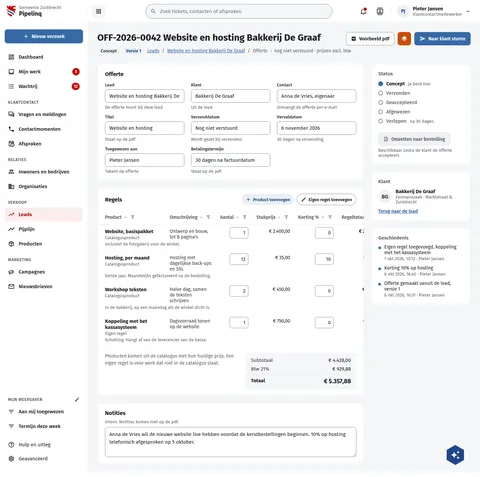
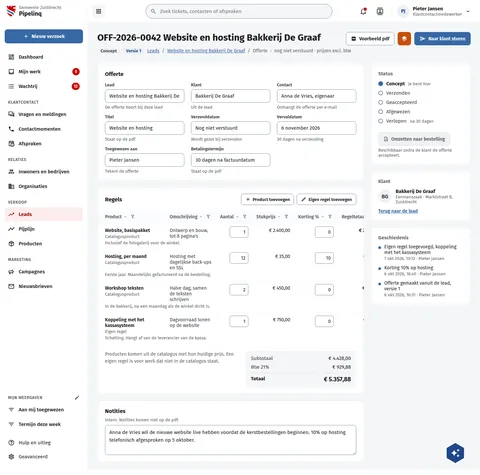
fix(screens): PqOfferte's lines table and card buttons as the Dq card tables
The lines table head sits on the near-white ground without rules, and the
product name is 14px/600 in the main ink, as DqZaakContact and
DqZaaktypeStatussen draw a card's list. "Product toevoegen" and "Eigen
regel toevoegen" are the neutral 34px card buttons with 8px corners, as the
Dq boards draw a card's Add. Rebuilt with build.py --only PqOfferte; that
also re-synced the stale stored heights of PqDashboard and PqLead in
screens.json with heights.json.

Assisted-by: ClaudeCode:claude-opus-5-5

diff --git a/preview/screens/boards/PqOfferte.html b/preview/screens/boards/PqOfferte.html
@@ -228,25 +228,25 @@ a{color:var(--sc-primary, #3669a5)}a:hover{color:var(--sc-primary-deep, #234a78)
               <div style="display: flex; flex-wrap: wrap; justify-content: space-between; align-items: center; gap: 10px; padding: 18px 22px 14px">
                 <h2 style="margin: 0; font-size: 17px; font-weight: 700">Regels</h2>
                 <div style="display: flex; flex-wrap: wrap; gap: 8px">
-                  <button type="button" style="display: inline-flex; align-items: center; gap: 6px; height: 34px; padding: 0 12px; border: 0; border-radius: 17px; background: var(--sc-primary-light, #eaf0f7); color: var(--sc-primary-deep, #234a78); font: 600 13px var(--sc-font, 'Fira Sans'), sans-serif"><svg width="16" height="16" viewbox="0 0 24 24" fill="currentColor"><path d="M19,13H13V19H11V13H5V11H11V5H13V11H19V13Z"></path></svg>Product toevoegen</button>
-                  <button type="button" style="display: inline-flex; align-items: center; gap: 6px; height: 34px; padding: 0 12px; border: 1px solid var(--sc-work-field, #828a95); border-radius: 17px; background: #ffffff; color: var(--sc-work-ink, #1b1c1d); font: 600 13px var(--sc-font, 'Fira Sans'), sans-serif"><svg width="16" height="16" viewbox="0 0 24 24" fill="currentColor"><path d="M14.06,9L15,9.94L5.92,19H5V18.08L14.06,9M17.66,3C17.41,3 17.15,3.1 16.96,3.29L15.13,5.12L18.88,8.87L20.71,7.04C21.1,6.65 21.1,6 20.71,5.63L18.37,3.29C18.17,3.09 17.92,3 17.66,3M14.06,6.19L3,17.25V21H6.75L17.81,9.94L14.06,6.19Z"></path></svg>Eigen regel toevoegen</button>
+                  <button type="button" style="display: inline-flex; align-items: center; gap: 6px; height: 34px; padding: 0 12px; border: 1px solid var(--sc-work-field, #828a95); border-radius: 8px; background: #ffffff; color: var(--sc-work-ink, #1b1c1d); font: 600 13px var(--sc-font, 'Fira Sans'), sans-serif"><svg width="16" height="16" viewbox="0 0 24 24" fill="currentColor"><path d="M19,13H13V19H11V13H5V11H11V5H13V11H19V13Z"></path></svg>Product toevoegen</button>
+                  <button type="button" style="display: inline-flex; align-items: center; gap: 6px; height: 34px; padding: 0 12px; border: 1px solid var(--sc-work-field, #828a95); border-radius: 8px; background: #ffffff; color: var(--sc-work-ink, #1b1c1d); font: 600 13px var(--sc-font, 'Fira Sans'), sans-serif"><svg width="16" height="16" viewbox="0 0 24 24" fill="currentColor"><path d="M14.06,9L15,9.94L5.92,19H5V18.08L14.06,9M17.66,3C17.41,3 17.15,3.1 16.96,3.29L15.13,5.12L18.88,8.87L20.71,7.04C21.1,6.65 21.1,6 20.71,5.63L18.37,3.29C18.17,3.09 17.92,3 17.66,3M14.06,6.19L3,17.25V21H6.75L17.81,9.94L14.06,6.19Z"></path></svg>Eigen regel toevoegen</button>
                 </div>
               </div>
               <div style="overflow-x: auto">
                 <table style="border-collapse: collapse; width: 100%; min-width: 760px; font-size: 14px">
-                  <thead><tr style="text-align: left; color: var(--sc-work-muted, #5e6168)">
-                    <th style="padding: 10px 12px 10px 22px; border-bottom: 1px solid var(--sc-work-line, #e4e6ea); border-top: 1px solid var(--sc-work-soft, #eef0f3); font-weight: 600; white-space: nowrap"><span style="display: inline-flex; align-items: center; gap: 4px"><button type="button" style="border: 0; background: transparent; padding: 0; font: inherit; color: inherit; display: inline-flex; gap: 4px; align-items: center; text-align: left">Product <svg width="14" height="14" viewbox="0 0 24 24" fill="#828a95" aria-hidden="true" style="fill:var(--sc-work-field, #828a95)"><path d="M7.41,8.58L12,13.17L16.59,8.58L18,10L12,16L6,10L7.41,8.58Z"></path></svg></button><button type="button" aria-haspopup="dialog" aria-label="Filteren op Product" title="Filteren op Product" style="width: 22px; height: 22px; padding: 0; border: 0; border-radius: 4px; background: transparent; color: var(--sc-work-muted, #5e6168); display: inline-flex; align-items: center; justify-content: center"><svg width="14" height="14" viewbox="0 0 24 24" fill="currentColor" aria-hidden="true"><path d="M15,19.88C15.04,20.18 14.94,20.5 14.71,20.71C14.32,21.1 13.69,21.1 13.3,20.71L9.29,16.7C9.06,16.47 8.96,16.16 9,15.87V10.75L4.21,4.62C3.87,4.19 3.95,3.56 4.38,3.22C4.57,3.08 4.78,3 5,3V3H19V3C19.22,3 19.43,3.08 19.62,3.22C20.05,3.56 20.13,4.19 19.79,4.62L15,10.75V19.88M7.04,5L11,10.06V15.58L13,17.58V10.05L16.96,5H7.04Z"></path></svg></button></span></th>
-                    <th style="padding: 10px 12px; border-bottom: 1px solid var(--sc-work-line, #e4e6ea); border-top: 1px solid var(--sc-work-soft, #eef0f3); font-weight: 600; white-space: nowrap"><span style="display: inline-flex; align-items: center; gap: 4px"><button type="button" style="border: 0; background: transparent; padding: 0; font: inherit; color: inherit; display: inline-flex; gap: 4px; align-items: center; text-align: left">Omschrijving <svg width="14" height="14" viewbox="0 0 24 24" fill="#828a95" aria-hidden="true" style="fill:var(--sc-work-field, #828a95)"><path d="M7.41,8.58L12,13.17L16.59,8.58L18,10L12,16L6,10L7.41,8.58Z"></path></svg></button><button type="button" aria-haspopup="dialog" aria-label="Filteren op Omschrijving" title="Filteren op Omschrijving" style="width: 22px; height: 22px; padding: 0; border: 0; border-radius: 4px; background: transparent; color: var(--sc-work-muted, #5e6168); display: inline-flex; align-items: center; justify-content: center"><svg width="14" height="14" viewbox="0 0 24 24" fill="currentColor" aria-hidden="true"><path d="M15,19.88C15.04,20.18 14.94,20.5 14.71,20.71C14.32,21.1 13.69,21.1 13.3,20.71L9.29,16.7C9.06,16.47 8.96,16.16 9,15.87V10.75L4.21,4.62C3.87,4.19 3.95,3.56 4.38,3.22C4.57,3.08 4.78,3 5,3V3H19V3C19.22,3 19.43,3.08 19.62,3.22C20.05,3.56 20.13,4.19 19.79,4.62L15,10.75V19.88M7.04,5L11,10.06V15.58L13,17.58V10.05L16.96,5H7.04Z"></path></svg></button></span></th>
-                    <th style="padding: 10px 12px; border-bottom: 1px solid var(--sc-work-line, #e4e6ea); border-top: 1px solid var(--sc-work-soft, #eef0f3); font-weight: 600; white-space: nowrap; text-align: right"><span style="display: inline-flex; align-items: center; gap: 4px"><button type="button" style="border: 0; background: transparent; padding: 0; font: inherit; color: inherit; display: inline-flex; gap: 4px; align-items: center; text-align: left">Aantal <svg width="14" height="14" viewbox="0 0 24 24" fill="#828a95" aria-hidden="true" style="fill:var(--sc-work-field, #828a95)"><path d="M7.41,8.58L12,13.17L16.59,8.58L18,10L12,16L6,10L7.41,8.58Z"></path></svg></button><button type="button" aria-haspopup="dialog" aria-label="Filteren op Aantal" title="Filteren op Aantal" style="width: 22px; height: 22px; padding: 0; border: 0; border-radius: 4px; background: transparent; color: var(--sc-work-muted, #5e6168); display: inline-flex; align-items: center; justify-content: center"><svg width="14" height="14" viewbox="0 0 24 24" fill="currentColor" aria-hidden="true"><path d="M15,19.88C15.04,20.18 14.94,20.5 14.71,20.71C14.32,21.1 13.69,21.1 13.3,20.71L9.29,16.7C9.06,16.47 8.96,16.16 9,15.87V10.75L4.21,4.62C3.87,4.19 3.95,3.56 4.38,3.22C4.57,3.08 4.78,3 5,3V3H19V3C19.22,3 19.43,3.08 19.62,3.22C20.05,3.56 20.13,4.19 19.79,4.62L15,10.75V19.88M7.04,5L11,10.06V15.58L13,17.58V10.05L16.96,5H7.04Z"></path></svg></button></span></th>
-                    <th style="padding: 10px 12px; border-bottom: 1px solid var(--sc-work-line, #e4e6ea); border-top: 1px solid var(--sc-work-soft, #eef0f3); font-weight: 600; white-space: nowrap; text-align: right"><span style="display: inline-flex; align-items: center; gap: 4px"><button type="button" style="border: 0; background: transparent; padding: 0; font: inherit; color: inherit; display: inline-flex; gap: 4px; align-items: center; text-align: left">Stukprijs <svg width="14" height="14" viewbox="0 0 24 24" fill="#828a95" aria-hidden="true" style="fill:var(--sc-work-field, #828a95)"><path d="M7.41,8.58L12,13.17L16.59,8.58L18,10L12,16L6,10L7.41,8.58Z"></path></svg></button><button type="button" aria-haspopup="dialog" aria-label="Filteren op Stukprijs" title="Filteren op Stukprijs" style="width: 22px; height: 22px; padding: 0; border: 0; border-radius: 4px; background: transparent; color: var(--sc-work-muted, #5e6168); display: inline-flex; align-items: center; justify-content: center"><svg width="14" height="14" viewbox="0 0 24 24" fill="currentColor" aria-hidden="true"><path d="M15,19.88C15.04,20.18 14.94,20.5 14.71,20.71C14.32,21.1 13.69,21.1 13.3,20.71L9.29,16.7C9.06,16.47 8.96,16.16 9,15.87V10.75L4.21,4.62C3.87,4.19 3.95,3.56 4.38,3.22C4.57,3.08 4.78,3 5,3V3H19V3C19.22,3 19.43,3.08 19.62,3.22C20.05,3.56 20.13,4.19 19.79,4.62L15,10.75V19.88M7.04,5L11,10.06V15.58L13,17.58V10.05L16.96,5H7.04Z"></path></svg></button></span></th>
-                    <th style="padding: 10px 12px; border-bottom: 1px solid var(--sc-work-line, #e4e6ea); border-top: 1px solid var(--sc-work-soft, #eef0f3); font-weight: 600; white-space: nowrap; text-align: right"><span style="display: inline-flex; align-items: center; gap: 4px"><button type="button" style="border: 0; background: transparent; padding: 0; font: inherit; color: inherit; display: inline-flex; gap: 4px; align-items: center; text-align: left">Korting % <svg width="14" height="14" viewbox="0 0 24 24" fill="#828a95" aria-hidden="true" style="fill:var(--sc-work-field, #828a95)"><path d="M7.41,8.58L12,13.17L16.59,8.58L18,10L12,16L6,10L7.41,8.58Z"></path></svg></button><button type="button" aria-haspopup="dialog" aria-label="Filteren op Korting %" title="Filteren op Korting %" style="width: 22px; height: 22px; padding: 0; border: 0; border-radius: 4px; background: transparent; color: var(--sc-work-muted, #5e6168); display: inline-flex; align-items: center; justify-content: center"><svg width="14" height="14" viewbox="0 0 24 24" fill="currentColor" aria-hidden="true"><path d="M15,19.88C15.04,20.18 14.94,20.5 14.71,20.71C14.32,21.1 13.69,21.1 13.3,20.71L9.29,16.7C9.06,16.47 8.96,16.16 9,15.87V10.75L4.21,4.62C3.87,4.19 3.95,3.56 4.38,3.22C4.57,3.08 4.78,3 5,3V3H19V3C19.22,3 19.43,3.08 19.62,3.22C20.05,3.56 20.13,4.19 19.79,4.62L15,10.75V19.88M7.04,5L11,10.06V15.58L13,17.58V10.05L16.96,5H7.04Z"></path></svg></button></span></th>
-                    <th style="padding: 10px 12px; border-bottom: 1px solid var(--sc-work-line, #e4e6ea); border-top: 1px solid var(--sc-work-soft, #eef0f3); font-weight: 600; white-space: nowrap; text-align: right"><span style="display: inline-flex; align-items: center; gap: 4px"><button type="button" style="border: 0; background: transparent; padding: 0; font: inherit; color: inherit; display: inline-flex; gap: 4px; align-items: center; text-align: left">Regeltotaal <svg width="14" height="14" viewbox="0 0 24 24" fill="#828a95" aria-hidden="true" style="fill:var(--sc-work-field, #828a95)"><path d="M7.41,8.58L12,13.17L16.59,8.58L18,10L12,16L6,10L7.41,8.58Z"></path></svg></button><button type="button" aria-haspopup="dialog" aria-label="Filteren op Regeltotaal" title="Filteren op Regeltotaal" style="width: 22px; height: 22px; padding: 0; border: 0; border-radius: 4px; background: transparent; color: var(--sc-work-muted, #5e6168); display: inline-flex; align-items: center; justify-content: center"><svg width="14" height="14" viewbox="0 0 24 24" fill="currentColor" aria-hidden="true"><path d="M15,19.88C15.04,20.18 14.94,20.5 14.71,20.71C14.32,21.1 13.69,21.1 13.3,20.71L9.29,16.7C9.06,16.47 8.96,16.16 9,15.87V10.75L4.21,4.62C3.87,4.19 3.95,3.56 4.38,3.22C4.57,3.08 4.78,3 5,3V3H19V3C19.22,3 19.43,3.08 19.62,3.22C20.05,3.56 20.13,4.19 19.79,4.62L15,10.75V19.88M7.04,5L11,10.06V15.58L13,17.58V10.05L16.96,5H7.04Z"></path></svg></button></span></th>
-                    <th style="padding: 10px 22px 10px 4px; border-bottom: 1px solid var(--sc-work-line, #e4e6ea); border-top: 1px solid var(--sc-work-soft, #eef0f3); width: 36px"><span style="position: absolute; width: 1px; height: 1px; overflow: hidden; clip: rect(0 0 0 0)">Verwijderen</span></th>
+                  <thead><tr style="text-align: left; color: var(--sc-work-muted, #5e6168); background: #fafbfc">
+                    <th style="padding: 10px 12px 10px 22px; font-weight: 600; white-space: nowrap"><span style="display: inline-flex; align-items: center; gap: 4px"><button type="button" style="border: 0; background: transparent; padding: 0; font: inherit; color: inherit; display: inline-flex; gap: 4px; align-items: center; text-align: left">Product <svg width="14" height="14" viewbox="0 0 24 24" fill="#828a95" aria-hidden="true" style="fill:var(--sc-work-field, #828a95)"><path d="M7.41,8.58L12,13.17L16.59,8.58L18,10L12,16L6,10L7.41,8.58Z"></path></svg></button><button type="button" aria-haspopup="dialog" aria-label="Filteren op Product" title="Filteren op Product" style="width: 22px; height: 22px; padding: 0; border: 0; border-radius: 4px; background: transparent; color: var(--sc-work-muted, #5e6168); display: inline-flex; align-items: center; justify-content: center"><svg width="14" height="14" viewbox="0 0 24 24" fill="currentColor" aria-hidden="true"><path d="M15,19.88C15.04,20.18 14.94,20.5 14.71,20.71C14.32,21.1 13.69,21.1 13.3,20.71L9.29,16.7C9.06,16.47 8.96,16.16 9,15.87V10.75L4.21,4.62C3.87,4.19 3.95,3.56 4.38,3.22C4.57,3.08 4.78,3 5,3V3H19V3C19.22,3 19.43,3.08 19.62,3.22C20.05,3.56 20.13,4.19 19.79,4.62L15,10.75V19.88M7.04,5L11,10.06V15.58L13,17.58V10.05L16.96,5H7.04Z"></path></svg></button></span></th>
+                    <th style="padding: 10px 12px; font-weight: 600; white-space: nowrap"><span style="display: inline-flex; align-items: center; gap: 4px"><button type="button" style="border: 0; background: transparent; padding: 0; font: inherit; color: inherit; display: inline-flex; gap: 4px; align-items: center; text-align: left">Omschrijving <svg width="14" height="14" viewbox="0 0 24 24" fill="#828a95" aria-hidden="true" style="fill:var(--sc-work-field, #828a95)"><path d="M7.41,8.58L12,13.17L16.59,8.58L18,10L12,16L6,10L7.41,8.58Z"></path></svg></button><button type="button" aria-haspopup="dialog" aria-label="Filteren op Omschrijving" title="Filteren op Omschrijving" style="width: 22px; height: 22px; padding: 0; border: 0; border-radius: 4px; background: transparent; color: var(--sc-work-muted, #5e6168); display: inline-flex; align-items: center; justify-content: center"><svg width="14" height="14" viewbox="0 0 24 24" fill="currentColor" aria-hidden="true"><path d="M15,19.88C15.04,20.18 14.94,20.5 14.71,20.71C14.32,21.1 13.69,21.1 13.3,20.71L9.29,16.7C9.06,16.47 8.96,16.16 9,15.87V10.75L4.21,4.62C3.87,4.19 3.95,3.56 4.38,3.22C4.57,3.08 4.78,3 5,3V3H19V3C19.22,3 19.43,3.08 19.62,3.22C20.05,3.56 20.13,4.19 19.79,4.62L15,10.75V19.88M7.04,5L11,10.06V15.58L13,17.58V10.05L16.96,5H7.04Z"></path></svg></button></span></th>
+                    <th style="padding: 10px 12px; font-weight: 600; white-space: nowrap; text-align: right"><span style="display: inline-flex; align-items: center; gap: 4px"><button type="button" style="border: 0; background: transparent; padding: 0; font: inherit; color: inherit; display: inline-flex; gap: 4px; align-items: center; text-align: left">Aantal <svg width="14" height="14" viewbox="0 0 24 24" fill="#828a95" aria-hidden="true" style="fill:var(--sc-work-field, #828a95)"><path d="M7.41,8.58L12,13.17L16.59,8.58L18,10L12,16L6,10L7.41,8.58Z"></path></svg></button><button type="button" aria-haspopup="dialog" aria-label="Filteren op Aantal" title="Filteren op Aantal" style="width: 22px; height: 22px; padding: 0; border: 0; border-radius: 4px; background: transparent; color: var(--sc-work-muted, #5e6168); display: inline-flex; align-items: center; justify-content: center"><svg width="14" height="14" viewbox="0 0 24 24" fill="currentColor" aria-hidden="true"><path d="M15,19.88C15.04,20.18 14.94,20.5 14.71,20.71C14.32,21.1 13.69,21.1 13.3,20.71L9.29,16.7C9.06,16.47 8.96,16.16 9,15.87V10.75L4.21,4.62C3.87,4.19 3.95,3.56 4.38,3.22C4.57,3.08 4.78,3 5,3V3H19V3C19.22,3 19.43,3.08 19.62,3.22C20.05,3.56 20.13,4.19 19.79,4.62L15,10.75V19.88M7.04,5L11,10.06V15.58L13,17.58V10.05L16.96,5H7.04Z"></path></svg></button></span></th>
+                    <th style="padding: 10px 12px; font-weight: 600; white-space: nowrap; text-align: right"><span style="display: inline-flex; align-items: center; gap: 4px"><button type="button" style="border: 0; background: transparent; padding: 0; font: inherit; color: inherit; display: inline-flex; gap: 4px; align-items: center; text-align: left">Stukprijs <svg width="14" height="14" viewbox="0 0 24 24" fill="#828a95" aria-hidden="true" style="fill:var(--sc-work-field, #828a95)"><path d="M7.41,8.58L12,13.17L16.59,8.58L18,10L12,16L6,10L7.41,8.58Z"></path></svg></button><button type="button" aria-haspopup="dialog" aria-label="Filteren op Stukprijs" title="Filteren op Stukprijs" style="width: 22px; height: 22px; padding: 0; border: 0; border-radius: 4px; background: transparent; color: var(--sc-work-muted, #5e6168); display: inline-flex; align-items: center; justify-content: center"><svg width="14" height="14" viewbox="0 0 24 24" fill="currentColor" aria-hidden="true"><path d="M15,19.88C15.04,20.18 14.94,20.5 14.71,20.71C14.32,21.1 13.69,21.1 13.3,20.71L9.29,16.7C9.06,16.47 8.96,16.16 9,15.87V10.75L4.21,4.62C3.87,4.19 3.95,3.56 4.38,3.22C4.57,3.08 4.78,3 5,3V3H19V3C19.22,3 19.43,3.08 19.62,3.22C20.05,3.56 20.13,4.19 19.79,4.62L15,10.75V19.88M7.04,5L11,10.06V15.58L13,17.58V10.05L16.96,5H7.04Z"></path></svg></button></span></th>
+                    <th style="padding: 10px 12px; font-weight: 600; white-space: nowrap; text-align: right"><span style="display: inline-flex; align-items: center; gap: 4px"><button type="button" style="border: 0; background: transparent; padding: 0; font: inherit; color: inherit; display: inline-flex; gap: 4px; align-items: center; text-align: left">Korting % <svg width="14" height="14" viewbox="0 0 24 24" fill="#828a95" aria-hidden="true" style="fill:var(--sc-work-field, #828a95)"><path d="M7.41,8.58L12,13.17L16.59,8.58L18,10L12,16L6,10L7.41,8.58Z"></path></svg></button><button type="button" aria-haspopup="dialog" aria-label="Filteren op Korting %" title="Filteren op Korting %" style="width: 22px; height: 22px; padding: 0; border: 0; border-radius: 4px; background: transparent; color: var(--sc-work-muted, #5e6168); display: inline-flex; align-items: center; justify-content: center"><svg width="14" height="14" viewbox="0 0 24 24" fill="currentColor" aria-hidden="true"><path d="M15,19.88C15.04,20.18 14.94,20.5 14.71,20.71C14.32,21.1 13.69,21.1 13.3,20.71L9.29,16.7C9.06,16.47 8.96,16.16 9,15.87V10.75L4.21,4.62C3.87,4.19 3.95,3.56 4.38,3.22C4.57,3.08 4.78,3 5,3V3H19V3C19.22,3 19.43,3.08 19.62,3.22C20.05,3.56 20.13,4.19 19.79,4.62L15,10.75V19.88M7.04,5L11,10.06V15.58L13,17.58V10.05L16.96,5H7.04Z"></path></svg></button></span></th>
+                    <th style="padding: 10px 12px; font-weight: 600; white-space: nowrap; text-align: right"><span style="display: inline-flex; align-items: center; gap: 4px"><button type="button" style="border: 0; background: transparent; padding: 0; font: inherit; color: inherit; display: inline-flex; gap: 4px; align-items: center; text-align: left">Regeltotaal <svg width="14" height="14" viewbox="0 0 24 24" fill="#828a95" aria-hidden="true" style="fill:var(--sc-work-field, #828a95)"><path d="M7.41,8.58L12,13.17L16.59,8.58L18,10L12,16L6,10L7.41,8.58Z"></path></svg></button><button type="button" aria-haspopup="dialog" aria-label="Filteren op Regeltotaal" title="Filteren op Regeltotaal" style="width: 22px; height: 22px; padding: 0; border: 0; border-radius: 4px; background: transparent; color: var(--sc-work-muted, #5e6168); display: inline-flex; align-items: center; justify-content: center"><svg width="14" height="14" viewbox="0 0 24 24" fill="currentColor" aria-hidden="true"><path d="M15,19.88C15.04,20.18 14.94,20.5 14.71,20.71C14.32,21.1 13.69,21.1 13.3,20.71L9.29,16.7C9.06,16.47 8.96,16.16 9,15.87V10.75L4.21,4.62C3.87,4.19 3.95,3.56 4.38,3.22C4.57,3.08 4.78,3 5,3V3H19V3C19.22,3 19.43,3.08 19.62,3.22C20.05,3.56 20.13,4.19 19.79,4.62L15,10.75V19.88M7.04,5L11,10.06V15.58L13,17.58V10.05L16.96,5H7.04Z"></path></svg></button></span></th>
+                    <th style="padding: 10px 22px 10px 4px; width: 36px"><span style="position: absolute; width: 1px; height: 1px; overflow: hidden; clip: rect(0 0 0 0)">Verwijderen</span></th>
                   </tr></thead>
                   <tbody>
                     
                       <tr>
-                        <td style="padding: 12px 12px 4px 22px; vertical-align: top; min-width: 170px"><span style="display: flex; flex-direction: column; gap: 2px"><strong style="font-size: 15px">Website, basispakket</strong><span style="font-size: 13px; color: var(--sc-work-muted, #5e6168)">Catalogusproduct</span></span></td>
+                        <td style="padding: 12px 12px 4px 22px; vertical-align: top; min-width: 170px"><span style="display: flex; flex-direction: column; gap: 2px"><strong style="font-size: 14px; font-weight: 600">Website, basispakket</strong><span style="font-size: 13px; color: var(--sc-work-muted, #5e6168)">Catalogusproduct</span></span></td>
                         <td style="padding: 12px 12px 4px; vertical-align: top; color: var(--sc-work-text, #3d4047)">Ontwerp en bouw, tot 8 pagina's</td>
                         <td style="padding: 8px 12px 4px; vertical-align: top; text-align: right"><input type="text" aria-label="Aantal voor Website, basispakket" value="1" style="width: 56px; height: 34px; box-sizing: border-box; padding: 0 8px; border: 1px solid var(--sc-work-field, #828a95); border-radius: 6px; font: 400 14px var(--sc-font, 'Fira Sans'), sans-serif; text-align: right; color: var(--sc-work-ink, #1b1c1d)"></td>
                         <td style="padding: 12px 12px 4px; vertical-align: top; text-align: right; white-space: nowrap">€ 2.400,00</td>
@@ -259,7 +259,7 @@ a{color:var(--sc-primary, #3669a5)}a:hover{color:var(--sc-primary-deep, #234a78)
                       </tr>
                     
                       <tr>
-                        <td style="padding: 12px 12px 4px 22px; vertical-align: top; min-width: 170px"><span style="display: flex; flex-direction: column; gap: 2px"><strong style="font-size: 15px">Hosting, per maand</strong><span style="font-size: 13px; color: var(--sc-work-muted, #5e6168)">Catalogusproduct</span></span></td>
+                        <td style="padding: 12px 12px 4px 22px; vertical-align: top; min-width: 170px"><span style="display: flex; flex-direction: column; gap: 2px"><strong style="font-size: 14px; font-weight: 600">Hosting, per maand</strong><span style="font-size: 13px; color: var(--sc-work-muted, #5e6168)">Catalogusproduct</span></span></td>
                         <td style="padding: 12px 12px 4px; vertical-align: top; color: var(--sc-work-text, #3d4047)">Hosting met dagelijkse back-ups en SSL</td>
                         <td style="padding: 8px 12px 4px; vertical-align: top; text-align: right"><input type="text" aria-label="Aantal voor Hosting, per maand" value="12" style="width: 56px; height: 34px; box-sizing: border-box; padding: 0 8px; border: 1px solid var(--sc-work-field, #828a95); border-radius: 6px; font: 400 14px var(--sc-font, 'Fira Sans'), sans-serif; text-align: right; color: var(--sc-work-ink, #1b1c1d)"></td>
                         <td style="padding: 12px 12px 4px; vertical-align: top; text-align: right; white-space: nowrap">€ 35,00</td>
@@ -272,7 +272,7 @@ a{color:var(--sc-primary, #3669a5)}a:hover{color:var(--sc-primary-deep, #234a78)
                       </tr>
                     
                       <tr>
-                        <td style="padding: 12px 12px 4px 22px; vertical-align: top; min-width: 170px"><span style="display: flex; flex-direction: column; gap: 2px"><strong style="font-size: 15px">Workshop teksten</strong><span style="font-size: 13px; color: var(--sc-work-muted, #5e6168)">Catalogusproduct</span></span></td>
+                        <td style="padding: 12px 12px 4px 22px; vertical-align: top; min-width: 170px"><span style="display: flex; flex-direction: column; gap: 2px"><strong style="font-size: 14px; font-weight: 600">Workshop teksten</strong><span style="font-size: 13px; color: var(--sc-work-muted, #5e6168)">Catalogusproduct</span></span></td>
                         <td style="padding: 12px 12px 4px; vertical-align: top; color: var(--sc-work-text, #3d4047)">Halve dag, samen de teksten schrijven</td>
                         <td style="padding: 8px 12px 4px; vertical-align: top; text-align: right"><input type="text" aria-label="Aantal voor Workshop teksten" value="2" style="width: 56px; height: 34px; box-sizing: border-box; padding: 0 8px; border: 1px solid var(--sc-work-field, #828a95); border-radius: 6px; font: 400 14px var(--sc-font, 'Fira Sans'), sans-serif; text-align: right; color: var(--sc-work-ink, #1b1c1d)"></td>
                         <td style="padding: 12px 12px 4px; vertical-align: top; text-align: right; white-space: nowrap">€ 450,00</td>
@@ -285,7 +285,7 @@ a{color:var(--sc-primary, #3669a5)}a:hover{color:var(--sc-primary-deep, #234a78)
                       </tr>
                     
                       <tr>
-                        <td style="padding: 12px 12px 4px 22px; vertical-align: top; min-width: 170px"><span style="display: flex; flex-direction: column; gap: 2px"><strong style="font-size: 15px">Koppeling met het kassasysteem</strong><span style="font-size: 13px; color: var(--sc-work-muted, #5e6168)">Eigen regel</span></span></td>
+                        <td style="padding: 12px 12px 4px 22px; vertical-align: top; min-width: 170px"><span style="display: flex; flex-direction: column; gap: 2px"><strong style="font-size: 14px; font-weight: 600">Koppeling met het kassasysteem</strong><span style="font-size: 13px; color: var(--sc-work-muted, #5e6168)">Eigen regel</span></span></td>
                         <td style="padding: 12px 12px 4px; vertical-align: top; color: var(--sc-work-text, #3d4047)">Dagvoorraad tonen op de website</td>
                         <td style="padding: 8px 12px 4px; vertical-align: top; text-align: right"><input type="text" aria-label="Aantal voor Koppeling met het kassasysteem" value="1" style="width: 56px; height: 34px; box-sizing: border-box; padding: 0 8px; border: 1px solid var(--sc-work-field, #828a95); border-radius: 6px; font: 400 14px var(--sc-font, 'Fira Sans'), sans-serif; text-align: right; color: var(--sc-work-ink, #1b1c1d)"></td>
                         <td style="padding: 12px 12px 4px; vertical-align: top; text-align: right; white-space: nowrap">€ 750,00</td>

diff --git a/screens-src/zuiddrecht/PqOfferte.dc.html b/screens-src/zuiddrecht/PqOfferte.dc.html
@@ -55,25 +55,25 @@ a{color:#3669a5}a:hover{color:#234a78}
               <div style="display: flex; flex-wrap: wrap; justify-content: space-between; align-items: center; gap: 10px; padding: 18px 22px 14px">
                 <h2 style="margin: 0; font-size: 17px; font-weight: 700">Regels</h2>
                 <div style="display: flex; flex-wrap: wrap; gap: 8px">
-                  <button type="button" style="display: inline-flex; align-items: center; gap: 6px; height: 34px; padding: 0 12px; border: 0; border-radius: 17px; background: #eaf0f7; color: #234a78; font: 600 13px 'Fira Sans', sans-serif"><svg width="16" height="16" viewBox="0 0 24 24" fill="currentColor"><path d="M19,13H13V19H11V13H5V11H11V5H13V11H19V13Z"></path></svg>Product toevoegen</button>
-                  <button type="button" style="display: inline-flex; align-items: center; gap: 6px; height: 34px; padding: 0 12px; border: 1px solid #828a95; border-radius: 17px; background: #ffffff; color: #1b1c1d; font: 600 13px 'Fira Sans', sans-serif"><svg width="16" height="16" viewBox="0 0 24 24" fill="currentColor"><path d="M14.06,9L15,9.94L5.92,19H5V18.08L14.06,9M17.66,3C17.41,3 17.15,3.1 16.96,3.29L15.13,5.12L18.88,8.87L20.71,7.04C21.1,6.65 21.1,6 20.71,5.63L18.37,3.29C18.17,3.09 17.92,3 17.66,3M14.06,6.19L3,17.25V21H6.75L17.81,9.94L14.06,6.19Z"></path></svg>Eigen regel toevoegen</button>
+                  <button type="button" style="display: inline-flex; align-items: center; gap: 6px; height: 34px; padding: 0 12px; border: 1px solid #828a95; border-radius: 8px; background: #ffffff; color: #1b1c1d; font: 600 13px 'Fira Sans', sans-serif"><svg width="16" height="16" viewBox="0 0 24 24" fill="currentColor"><path d="M19,13H13V19H11V13H5V11H11V5H13V11H19V13Z"></path></svg>Product toevoegen</button>
+                  <button type="button" style="display: inline-flex; align-items: center; gap: 6px; height: 34px; padding: 0 12px; border: 1px solid #828a95; border-radius: 8px; background: #ffffff; color: #1b1c1d; font: 600 13px 'Fira Sans', sans-serif"><svg width="16" height="16" viewBox="0 0 24 24" fill="currentColor"><path d="M14.06,9L15,9.94L5.92,19H5V18.08L14.06,9M17.66,3C17.41,3 17.15,3.1 16.96,3.29L15.13,5.12L18.88,8.87L20.71,7.04C21.1,6.65 21.1,6 20.71,5.63L18.37,3.29C18.17,3.09 17.92,3 17.66,3M14.06,6.19L3,17.25V21H6.75L17.81,9.94L14.06,6.19Z"></path></svg>Eigen regel toevoegen</button>
                 </div>
               </div>
               <div style="overflow-x: auto">
                 <table style="border-collapse: collapse; width: 100%; min-width: 760px; font-size: 14px">
-                  <thead><tr style="text-align: left; color: #5e6168">
-                    <th style="padding: 10px 12px 10px 22px; border-bottom: 1px solid #e4e6ea; border-top: 1px solid #eef0f3; font-weight: 600; white-space: nowrap"><span style="display: inline-flex; align-items: center; gap: 4px"><button type="button" style="border: 0; background: transparent; padding: 0; font: inherit; color: inherit; display: inline-flex; gap: 4px; align-items: center; text-align: left">Product <svg width="14" height="14" viewBox="0 0 24 24" fill="#828a95" aria-hidden="true"><path d="M7.41,8.58L12,13.17L16.59,8.58L18,10L12,16L6,10L7.41,8.58Z"></path></svg></button><button type="button" aria-haspopup="dialog" aria-label="Filteren op Product" title="Filteren op Product" style="width: 22px; height: 22px; padding: 0; border: 0; border-radius: 4px; background: transparent; color: #5e6168; display: inline-flex; align-items: center; justify-content: center"><svg width="14" height="14" viewBox="0 0 24 24" fill="currentColor" aria-hidden="true"><path d="M15,19.88C15.04,20.18 14.94,20.5 14.71,20.71C14.32,21.1 13.69,21.1 13.3,20.71L9.29,16.7C9.06,16.47 8.96,16.16 9,15.87V10.75L4.21,4.62C3.87,4.19 3.95,3.56 4.38,3.22C4.57,3.08 4.78,3 5,3V3H19V3C19.22,3 19.43,3.08 19.62,3.22C20.05,3.56 20.13,4.19 19.79,4.62L15,10.75V19.88M7.04,5L11,10.06V15.58L13,17.58V10.05L16.96,5H7.04Z"></path></svg></button></span></th>
-                    <th style="padding: 10px 12px; border-bottom: 1px solid #e4e6ea; border-top: 1px solid #eef0f3; font-weight: 600; white-space: nowrap"><span style="display: inline-flex; align-items: center; gap: 4px"><button type="button" style="border: 0; background: transparent; padding: 0; font: inherit; color: inherit; display: inline-flex; gap: 4px; align-items: center; text-align: left">Omschrijving <svg width="14" height="14" viewBox="0 0 24 24" fill="#828a95" aria-hidden="true"><path d="M7.41,8.58L12,13.17L16.59,8.58L18,10L12,16L6,10L7.41,8.58Z"></path></svg></button><button type="button" aria-haspopup="dialog" aria-label="Filteren op Omschrijving" title="Filteren op Omschrijving" style="width: 22px; height: 22px; padding: 0; border: 0; border-radius: 4px; background: transparent; color: #5e6168; display: inline-flex; align-items: center; justify-content: center"><svg width="14" height="14" viewBox="0 0 24 24" fill="currentColor" aria-hidden="true"><path d="M15,19.88C15.04,20.18 14.94,20.5 14.71,20.71C14.32,21.1 13.69,21.1 13.3,20.71L9.29,16.7C9.06,16.47 8.96,16.16 9,15.87V10.75L4.21,4.62C3.87,4.19 3.95,3.56 4.38,3.22C4.57,3.08 4.78,3 5,3V3H19V3C19.22,3 19.43,3.08 19.62,3.22C20.05,3.56 20.13,4.19 19.79,4.62L15,10.75V19.88M7.04,5L11,10.06V15.58L13,17.58V10.05L16.96,5H7.04Z"></path></svg></button></span></th>
-                    <th style="padding: 10px 12px; border-bottom: 1px solid #e4e6ea; border-top: 1px solid #eef0f3; font-weight: 600; white-space: nowrap; text-align: right"><span style="display: inline-flex; align-items: center; gap: 4px"><button type="button" style="border: 0; background: transparent; padding: 0; font: inherit; color: inherit; display: inline-flex; gap: 4px; align-items: center; text-align: left">Aantal <svg width="14" height="14" viewBox="0 0 24 24" fill="#828a95" aria-hidden="true"><path d="M7.41,8.58L12,13.17L16.59,8.58L18,10L12,16L6,10L7.41,8.58Z"></path></svg></button><button type="button" aria-haspopup="dialog" aria-label="Filteren op Aantal" title="Filteren op Aantal" style="width: 22px; height: 22px; padding: 0; border: 0; border-radius: 4px; background: transparent; color: #5e6168; display: inline-flex; align-items: center; justify-content: center"><svg width="14" height="14" viewBox="0 0 24 24" fill="currentColor" aria-hidden="true"><path d="M15,19.88C15.04,20.18 14.94,20.5 14.71,20.71C14.32,21.1 13.69,21.1 13.3,20.71L9.29,16.7C9.06,16.47 8.96,16.16 9,15.87V10.75L4.21,4.62C3.87,4.19 3.95,3.56 4.38,3.22C4.57,3.08 4.78,3 5,3V3H19V3C19.22,3 19.43,3.08 19.62,3.22C20.05,3.56 20.13,4.19 19.79,4.62L15,10.75V19.88M7.04,5L11,10.06V15.58L13,17.58V10.05L16.96,5H7.04Z"></path></svg></button></span></th>
-                    <th style="padding: 10px 12px; border-bottom: 1px solid #e4e6ea; border-top: 1px solid #eef0f3; font-weight: 600; white-space: nowrap; text-align: right"><span style="display: inline-flex; align-items: center; gap: 4px"><button type="button" style="border: 0; background: transparent; padding: 0; font: inherit; color: inherit; display: inline-flex; gap: 4px; align-items: center; text-align: left">Stukprijs <svg width="14" height="14" viewBox="0 0 24 24" fill="#828a95" aria-hidden="true"><path d="M7.41,8.58L12,13.17L16.59,8.58L18,10L12,16L6,10L7.41,8.58Z"></path></svg></button><button type="button" aria-haspopup="dialog" aria-label="Filteren op Stukprijs" title="Filteren op Stukprijs" style="width: 22px; height: 22px; padding: 0; border: 0; border-radius: 4px; background: transparent; color: #5e6168; display: inline-flex; align-items: center; justify-content: center"><svg width="14" height="14" viewBox="0 0 24 24" fill="currentColor" aria-hidden="true"><path d="M15,19.88C15.04,20.18 14.94,20.5 14.71,20.71C14.32,21.1 13.69,21.1 13.3,20.71L9.29,16.7C9.06,16.47 8.96,16.16 9,15.87V10.75L4.21,4.62C3.87,4.19 3.95,3.56 4.38,3.22C4.57,3.08 4.78,3 5,3V3H19V3C19.22,3 19.43,3.08 19.62,3.22C20.05,3.56 20.13,4.19 19.79,4.62L15,10.75V19.88M7.04,5L11,10.06V15.58L13,17.58V10.05L16.96,5H7.04Z"></path></svg></button></span></th>
-                    <th style="padding: 10px 12px; border-bottom: 1px solid #e4e6ea; border-top: 1px solid #eef0f3; font-weight: 600; white-space: nowrap; text-align: right"><span style="display: inline-flex; align-items: center; gap: 4px"><button type="button" style="border: 0; background: transparent; padding: 0; font: inherit; color: inherit; display: inline-flex; gap: 4px; align-items: center; text-align: left">Korting % <svg width="14" height="14" viewBox="0 0 24 24" fill="#828a95" aria-hidden="true"><path d="M7.41,8.58L12,13.17L16.59,8.58L18,10L12,16L6,10L7.41,8.58Z"></path></svg></button><button type="button" aria-haspopup="dialog" aria-label="Filteren op Korting %" title="Filteren op Korting %" style="width: 22px; height: 22px; padding: 0; border: 0; border-radius: 4px; background: transparent; color: #5e6168; display: inline-flex; align-items: center; justify-content: center"><svg width="14" height="14" viewBox="0 0 24 24" fill="currentColor" aria-hidden="true"><path d="M15,19.88C15.04,20.18 14.94,20.5 14.71,20.71C14.32,21.1 13.69,21.1 13.3,20.71L9.29,16.7C9.06,16.47 8.96,16.16 9,15.87V10.75L4.21,4.62C3.87,4.19 3.95,3.56 4.38,3.22C4.57,3.08 4.78,3 5,3V3H19V3C19.22,3 19.43,3.08 19.62,3.22C20.05,3.56 20.13,4.19 19.79,4.62L15,10.75V19.88M7.04,5L11,10.06V15.58L13,17.58V10.05L16.96,5H7.04Z"></path></svg></button></span></th>
-                    <th style="padding: 10px 12px; border-bottom: 1px solid #e4e6ea; border-top: 1px solid #eef0f3; font-weight: 600; white-space: nowrap; text-align: right"><span style="display: inline-flex; align-items: center; gap: 4px"><button type="button" style="border: 0; background: transparent; padding: 0; font: inherit; color: inherit; display: inline-flex; gap: 4px; align-items: center; text-align: left">Regeltotaal <svg width="14" height="14" viewBox="0 0 24 24" fill="#828a95" aria-hidden="true"><path d="M7.41,8.58L12,13.17L16.59,8.58L18,10L12,16L6,10L7.41,8.58Z"></path></svg></button><button type="button" aria-haspopup="dialog" aria-label="Filteren op Regeltotaal" title="Filteren op Regeltotaal" style="width: 22px; height: 22px; padding: 0; border: 0; border-radius: 4px; background: transparent; color: #5e6168; display: inline-flex; align-items: center; justify-content: center"><svg width="14" height="14" viewBox="0 0 24 24" fill="currentColor" aria-hidden="true"><path d="M15,19.88C15.04,20.18 14.94,20.5 14.71,20.71C14.32,21.1 13.69,21.1 13.3,20.71L9.29,16.7C9.06,16.47 8.96,16.16 9,15.87V10.75L4.21,4.62C3.87,4.19 3.95,3.56 4.38,3.22C4.57,3.08 4.78,3 5,3V3H19V3C19.22,3 19.43,3.08 19.62,3.22C20.05,3.56 20.13,4.19 19.79,4.62L15,10.75V19.88M7.04,5L11,10.06V15.58L13,17.58V10.05L16.96,5H7.04Z"></path></svg></button></span></th>
-                    <th style="padding: 10px 22px 10px 4px; border-bottom: 1px solid #e4e6ea; border-top: 1px solid #eef0f3; width: 36px"><span style="position: absolute; width: 1px; height: 1px; overflow: hidden; clip: rect(0 0 0 0)">Verwijderen</span></th>
+                  <thead><tr style="text-align: left; color: #5e6168; background: #fafbfc">
+                    <th style="padding: 10px 12px 10px 22px; font-weight: 600; white-space: nowrap"><span style="display: inline-flex; align-items: center; gap: 4px"><button type="button" style="border: 0; background: transparent; padding: 0; font: inherit; color: inherit; display: inline-flex; gap: 4px; align-items: center; text-align: left">Product <svg width="14" height="14" viewBox="0 0 24 24" fill="#828a95" aria-hidden="true"><path d="M7.41,8.58L12,13.17L16.59,8.58L18,10L12,16L6,10L7.41,8.58Z"></path></svg></button><button type="button" aria-haspopup="dialog" aria-label="Filteren op Product" title="Filteren op Product" style="width: 22px; height: 22px; padding: 0; border: 0; border-radius: 4px; background: transparent; color: #5e6168; display: inline-flex; align-items: center; justify-content: center"><svg width="14" height="14" viewBox="0 0 24 24" fill="currentColor" aria-hidden="true"><path d="M15,19.88C15.04,20.18 14.94,20.5 14.71,20.71C14.32,21.1 13.69,21.1 13.3,20.71L9.29,16.7C9.06,16.47 8.96,16.16 9,15.87V10.75L4.21,4.62C3.87,4.19 3.95,3.56 4.38,3.22C4.57,3.08 4.78,3 5,3V3H19V3C19.22,3 19.43,3.08 19.62,3.22C20.05,3.56 20.13,4.19 19.79,4.62L15,10.75V19.88M7.04,5L11,10.06V15.58L13,17.58V10.05L16.96,5H7.04Z"></path></svg></button></span></th>
+                    <th style="padding: 10px 12px; font-weight: 600; white-space: nowrap"><span style="display: inline-flex; align-items: center; gap: 4px"><button type="button" style="border: 0; background: transparent; padding: 0; font: inherit; color: inherit; display: inline-flex; gap: 4px; align-items: center; text-align: left">Omschrijving <svg width="14" height="14" viewBox="0 0 24 24" fill="#828a95" aria-hidden="true"><path d="M7.41,8.58L12,13.17L16.59,8.58L18,10L12,16L6,10L7.41,8.58Z"></path></svg></button><button type="button" aria-haspopup="dialog" aria-label="Filteren op Omschrijving" title="Filteren op Omschrijving" style="width: 22px; height: 22px; padding: 0; border: 0; border-radius: 4px; background: transparent; color: #5e6168; display: inline-flex; align-items: center; justify-content: center"><svg width="14" height="14" viewBox="0 0 24 24" fill="currentColor" aria-hidden="true"><path d="M15,19.88C15.04,20.18 14.94,20.5 14.71,20.71C14.32,21.1 13.69,21.1 13.3,20.71L9.29,16.7C9.06,16.47 8.96,16.16 9,15.87V10.75L4.21,4.62C3.87,4.19 3.95,3.56 4.38,3.22C4.57,3.08 4.78,3 5,3V3H19V3C19.22,3 19.43,3.08 19.62,3.22C20.05,3.56 20.13,4.19 19.79,4.62L15,10.75V19.88M7.04,5L11,10.06V15.58L13,17.58V10.05L16.96,5H7.04Z"></path></svg></button></span></th>
+                    <th style="padding: 10px 12px; font-weight: 600; white-space: nowrap; text-align: right"><span style="display: inline-flex; align-items: center; gap: 4px"><button type="button" style="border: 0; background: transparent; padding: 0; font: inherit; color: inherit; display: inline-flex; gap: 4px; align-items: center; text-align: left">Aantal <svg width="14" height="14" viewBox="0 0 24 24" fill="#828a95" aria-hidden="true"><path d="M7.41,8.58L12,13.17L16.59,8.58L18,10L12,16L6,10L7.41,8.58Z"></path></svg></button><button type="button" aria-haspopup="dialog" aria-label="Filteren op Aantal" title="Filteren op Aantal" style="width: 22px; height: 22px; padding: 0; border: 0; border-radius: 4px; background: transparent; color: #5e6168; display: inline-flex; align-items: center; justify-content: center"><svg width="14" height="14" viewBox="0 0 24 24" fill="currentColor" aria-hidden="true"><path d="M15,19.88C15.04,20.18 14.94,20.5 14.71,20.71C14.32,21.1 13.69,21.1 13.3,20.71L9.29,16.7C9.06,16.47 8.96,16.16 9,15.87V10.75L4.21,4.62C3.87,4.19 3.95,3.56 4.38,3.22C4.57,3.08 4.78,3 5,3V3H19V3C19.22,3 19.43,3.08 19.62,3.22C20.05,3.56 20.13,4.19 19.79,4.62L15,10.75V19.88M7.04,5L11,10.06V15.58L13,17.58V10.05L16.96,5H7.04Z"></path></svg></button></span></th>
+                    <th style="padding: 10px 12px; font-weight: 600; white-space: nowrap; text-align: right"><span style="display: inline-flex; align-items: center; gap: 4px"><button type="button" style="border: 0; background: transparent; padding: 0; font: inherit; color: inherit; display: inline-flex; gap: 4px; align-items: center; text-align: left">Stukprijs <svg width="14" height="14" viewBox="0 0 24 24" fill="#828a95" aria-hidden="true"><path d="M7.41,8.58L12,13.17L16.59,8.58L18,10L12,16L6,10L7.41,8.58Z"></path></svg></button><button type="button" aria-haspopup="dialog" aria-label="Filteren op Stukprijs" title="Filteren op Stukprijs" style="width: 22px; height: 22px; padding: 0; border: 0; border-radius: 4px; background: transparent; color: #5e6168; display: inline-flex; align-items: center; justify-content: center"><svg width="14" height="14" viewBox="0 0 24 24" fill="currentColor" aria-hidden="true"><path d="M15,19.88C15.04,20.18 14.94,20.5 14.71,20.71C14.32,21.1 13.69,21.1 13.3,20.71L9.29,16.7C9.06,16.47 8.96,16.16 9,15.87V10.75L4.21,4.62C3.87,4.19 3.95,3.56 4.38,3.22C4.57,3.08 4.78,3 5,3V3H19V3C19.22,3 19.43,3.08 19.62,3.22C20.05,3.56 20.13,4.19 19.79,4.62L15,10.75V19.88M7.04,5L11,10.06V15.58L13,17.58V10.05L16.96,5H7.04Z"></path></svg></button></span></th>
+                    <th style="padding: 10px 12px; font-weight: 600; white-space: nowrap; text-align: right"><span style="display: inline-flex; align-items: center; gap: 4px"><button type="button" style="border: 0; background: transparent; padding: 0; font: inherit; color: inherit; display: inline-flex; gap: 4px; align-items: center; text-align: left">Korting % <svg width="14" height="14" viewBox="0 0 24 24" fill="#828a95" aria-hidden="true"><path d="M7.41,8.58L12,13.17L16.59,8.58L18,10L12,16L6,10L7.41,8.58Z"></path></svg></button><button type="button" aria-haspopup="dialog" aria-label="Filteren op Korting %" title="Filteren op Korting %" style="width: 22px; height: 22px; padding: 0; border: 0; border-radius: 4px; background: transparent; color: #5e6168; display: inline-flex; align-items: center; justify-content: center"><svg width="14" height="14" viewBox="0 0 24 24" fill="currentColor" aria-hidden="true"><path d="M15,19.88C15.04,20.18 14.94,20.5 14.71,20.71C14.32,21.1 13.69,21.1 13.3,20.71L9.29,16.7C9.06,16.47 8.96,16.16 9,15.87V10.75L4.21,4.62C3.87,4.19 3.95,3.56 4.38,3.22C4.57,3.08 4.78,3 5,3V3H19V3C19.22,3 19.43,3.08 19.62,3.22C20.05,3.56 20.13,4.19 19.79,4.62L15,10.75V19.88M7.04,5L11,10.06V15.58L13,17.58V10.05L16.96,5H7.04Z"></path></svg></button></span></th>
+                    <th style="padding: 10px 12px; font-weight: 600; white-space: nowrap; text-align: right"><span style="display: inline-flex; align-items: center; gap: 4px"><button type="button" style="border: 0; background: transparent; padding: 0; font: inherit; color: inherit; display: inline-flex; gap: 4px; align-items: center; text-align: left">Regeltotaal <svg width="14" height="14" viewBox="0 0 24 24" fill="#828a95" aria-hidden="true"><path d="M7.41,8.58L12,13.17L16.59,8.58L18,10L12,16L6,10L7.41,8.58Z"></path></svg></button><button type="button" aria-haspopup="dialog" aria-label="Filteren op Regeltotaal" title="Filteren op Regeltotaal" style="width: 22px; height: 22px; padding: 0; border: 0; border-radius: 4px; background: transparent; color: #5e6168; display: inline-flex; align-items: center; justify-content: center"><svg width="14" height="14" viewBox="0 0 24 24" fill="currentColor" aria-hidden="true"><path d="M15,19.88C15.04,20.18 14.94,20.5 14.71,20.71C14.32,21.1 13.69,21.1 13.3,20.71L9.29,16.7C9.06,16.47 8.96,16.16 9,15.87V10.75L4.21,4.62C3.87,4.19 3.95,3.56 4.38,3.22C4.57,3.08 4.78,3 5,3V3H19V3C19.22,3 19.43,3.08 19.62,3.22C20.05,3.56 20.13,4.19 19.79,4.62L15,10.75V19.88M7.04,5L11,10.06V15.58L13,17.58V10.05L16.96,5H7.04Z"></path></svg></button></span></th>
+                    <th style="padding: 10px 22px 10px 4px; width: 36px"><span style="position: absolute; width: 1px; height: 1px; overflow: hidden; clip: rect(0 0 0 0)">Verwijderen</span></th>
                   </tr></thead>
                   <tbody>
                     <sc-for list="{{ lines }}" as="l" hint-placeholder-count="4">
                       <tr>
-                        <td style="padding: 12px 12px 4px 22px; vertical-align: top; min-width: 170px"><span style="display: flex; flex-direction: column; gap: 2px"><strong style="font-size: 15px">{{ l.product }}</strong><span style="font-size: 13px; color: #5e6168">{{ l.kind }}</span></span></td>
+                        <td style="padding: 12px 12px 4px 22px; vertical-align: top; min-width: 170px"><span style="display: flex; flex-direction: column; gap: 2px"><strong style="font-size: 14px; font-weight: 600">{{ l.product }}</strong><span style="font-size: 13px; color: #5e6168">{{ l.kind }}</span></span></td>
                         <td style="padding: 12px 12px 4px; vertical-align: top; color: #3d4047">{{ l.desc }}</td>
                         <td style="padding: 8px 12px 4px; vertical-align: top; text-align: right"><input type="text" aria-label="{{ l.qtyLabel }}" value="{{ l.qty }}" style="width: 56px; height: 34px; box-sizing: border-box; padding: 0 8px; border: 1px solid #828a95; border-radius: 6px; font: 400 14px 'Fira Sans', sans-serif; text-align: right; color: #1b1c1d"></td>
                         <td style="padding: 12px 12px 4px; vertical-align: top; text-align: right; white-space: nowrap">{{ l.unit }}</td>
